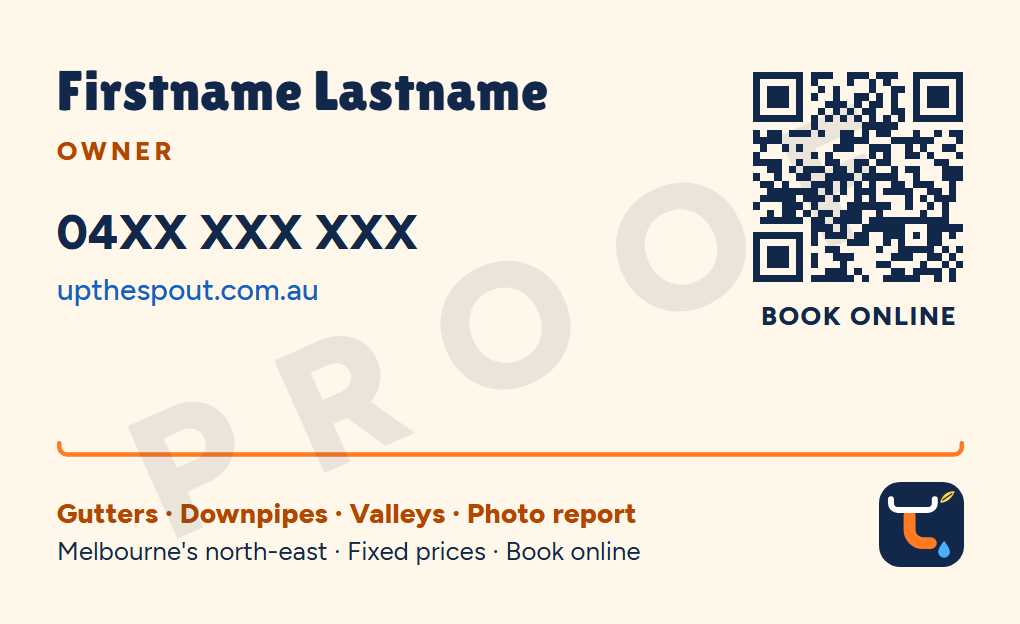
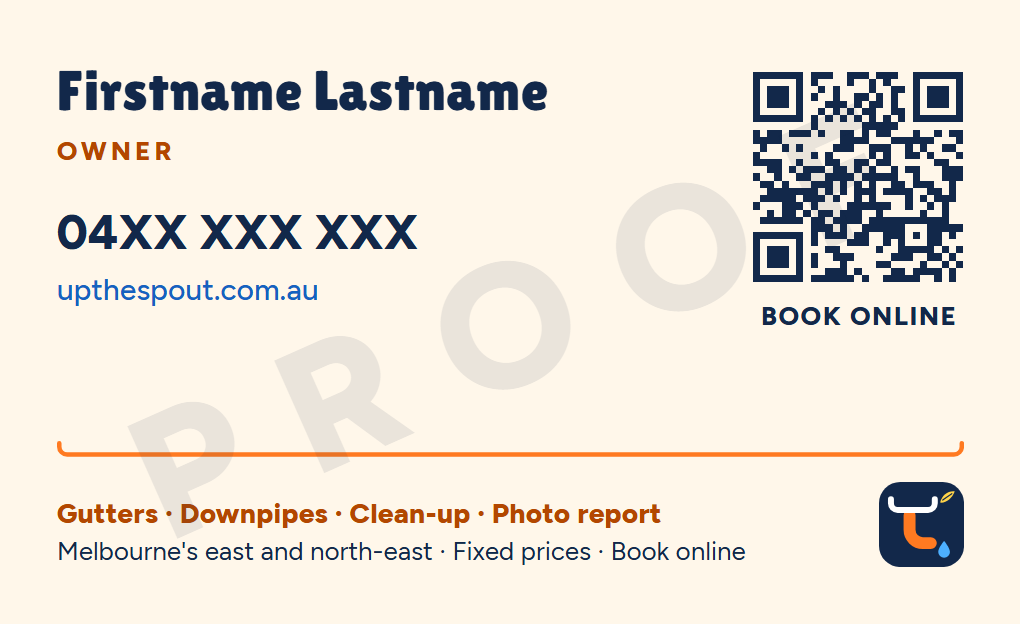
Describe the area as Melbourne's east and north-east
Update page copy, titles, meta descriptions, email footer, invoice
header and llms.txt, and re-render the OG image and proof card.

Changed region(s): [[0.1824, 0.7917, 0.7294, 0.9135]]

diff --git a/templates/pages/home.html b/templates/pages/home.html
@@ -1,8 +1,8 @@
 {{template "base" .}}
 
 {{define "meta"}}
-    <title>Gutter Cleaning in Melbourne's North-East — Fixed Prices | Up The Spout</title>
-    <meta name="description" content="Gutter and downpipe cleaning across Melbourne's north-east: Eltham, Templestowe, Donvale, Ringwood North, Warrandyte and nearby. Fixed prices from ${{(index .Site.Prices.Types 0).Price}}, book online, before-and-after photos with every clean.">
+    <title>Gutter Cleaning in Melbourne's East and North-East — Fixed Prices | Up The Spout</title>
+    <meta name="description" content="Gutter and downpipe cleaning across Melbourne's east and north-east: Eltham, Templestowe, Donvale, Ringwood North, Warrandyte and nearby. Fixed prices from ${{(index .Site.Prices.Types 0).Price}}, book online, before-and-after photos with every clean.">
     <meta property="og:title" content="Up The Spout — gutter cleaning with fixed prices, book online">
     <meta property="og:description" content="Gutters cleared with professional equipment, mess taken away, and a photo report. Get fire-ready before summer.">
 {{end}}
@@ -60,11 +60,11 @@
         <div class="container">
             <div class="hero-grid">
                 <div class="hero-content">
-                    <p class="hero-overline">Gutter &amp; downpipe cleaning &middot; Melbourne's north-east</p>
+                    <p class="hero-overline">Gutter &amp; downpipe cleaning &middot; Melbourne's east and north-east</p>
                     <h1>Clean gutters, <span class="hl">done properly.</span></h1>
                     <p class="hero-desc">
                         We use professional gutter cleaning equipment, so no one has to risk their life on a
-                        ladder. Gutters cleared for homes across Melbourne's north-east, at
+                        ladder. Gutters cleared for homes across Melbourne's east and north-east, at
                         fixed prices, with the mess taken away and before-and-after photos of the job.
                     </p>
                     <div class="hero-actions">
@@ -216,7 +216,7 @@
     <section class="areas-section" id="areas">
         <div class="container">
             <div class="section-label reveal">Service area</div>
-            <h2 class="section-title reveal">Covering Melbourne's north-east.</h2>
+            <h2 class="section-title reveal">Covering Melbourne's east and north-east.</h2>
             <div class="reveal">{{template "areas" .Site}}</div>
         </div>
     </section>

diff --git a/templates/pages/areas.html b/templates/pages/areas.html
@@ -1,10 +1,10 @@
 {{template "base" .}}
 
 {{define "meta"}}
-    <title>Service Areas — Gutter Cleaning in Melbourne's North-East | Up The Spout</title>
-    <meta name="description" content="Gutter cleaning across {{.PageData.Count}} suburbs in Melbourne's north-east: Manningham, Nillumbik and Maroondah. Fixed prices, no call-out fee.">
-    <meta property="og:title" content="Where we work — gutter cleaning in Melbourne's north-east">
-    <meta property="og:description" content="{{.PageData.Count}} suburbs across Melbourne's north-east. Fixed prices, no call-out fee.">
+    <title>Service Areas — Gutter Cleaning in Melbourne's East and North-East | Up The Spout</title>
+    <meta name="description" content="Gutter cleaning across {{.PageData.Count}} suburbs in Melbourne's east and north-east: Manningham, Nillumbik and Maroondah. Fixed prices, no call-out fee.">
+    <meta property="og:title" content="Where we work — gutter cleaning in Melbourne's east and north-east">
+    <meta property="og:description" content="{{.PageData.Count}} suburbs across Melbourne's east and north-east. Fixed prices, no call-out fee.">
 {{end}}
 
 {{define "head"}}
@@ -16,7 +16,7 @@
         <div class="container">
             <div class="section-label">Service areas</div>
             <h1 class="section-title">Where we work.</h1>
-            <p class="page-header-intro">We work across Melbourne's north-east: anywhere about 15 minutes' drive from our base in Warrandyte. There's no call-out fee anywhere on this list. Pick your suburb for local details, or <a href="/book">book a clean</a>.</p>
+            <p class="page-header-intro">We work across Melbourne's east and north-east: anywhere about 15 minutes' drive from our base in Warrandyte. There's no call-out fee anywhere on this list. Pick your suburb for local details, or <a href="/book">book a clean</a>.</p>
         </div>
     </div>
 

diff --git a/templates/pages/services.html b/templates/pages/services.html
@@ -1,8 +1,8 @@
 {{template "base" .}}
 
 {{define "meta"}}
-    <title>Gutter Cleaning Services — Melbourne's North-East | Up The Spout</title>
-    <meta name="description" content="Gutter cleaning, fire-season cleans, the twice-a-year Fire-ready plan, blocked downpipes, and pre-sale or rental cleans across Melbourne's north-east.">
+    <title>Gutter Cleaning Services — Melbourne's East and North-East | Up The Spout</title>
+    <meta name="description" content="Gutter cleaning, fire-season cleans, the twice-a-year Fire-ready plan, blocked downpipes, and pre-sale or rental cleans across Melbourne's east and north-east.">
     <meta property="og:title" content="Gutter cleaning services — Up The Spout">
     <meta property="og:description" content="Everything we do, with fixed prices published up front.">
 {{end}}
@@ -16,7 +16,7 @@
         <div class="container">
             <div class="section-label">Services</div>
             <h1 class="section-title">What we do.</h1>
-            <p class="page-header-intro">Gutters and downpipes, across Melbourne's north-east. Every clean comes with a before-and-after photo report. We don't do repairs or plumbing — if we spot a problem, we'll photograph it and tell you who to call.</p>
+            <p class="page-header-intro">Gutters and downpipes, across Melbourne's east and north-east. Every clean comes with a before-and-after photo report. We don't do repairs or plumbing — if we spot a problem, we'll photograph it and tell you who to call.</p>
         </div>
     </div>
 

diff --git a/templates/layouts/base.html b/templates/layouts/base.html
@@ -6,8 +6,8 @@
     <meta name="viewport" content="width=device-width, initial-scale=1.0">
     {{template "google-tag" .}}
     {{block "meta" .}}
-    <title>Up The Spout — Gutter Cleaning in Melbourne's North-East</title>
-    <meta name="description" content="Gutter and downpipe cleaning across Melbourne's north-east: Eltham, Templestowe, Donvale, Ringwood North, Warrandyte and nearby. Fixed prices, book online, photo report with every clean.">
+    <title>Up The Spout — Gutter Cleaning in Melbourne's East and North-East</title>
+    <meta name="description" content="Gutter and downpipe cleaning across Melbourne's east and north-east: Eltham, Templestowe, Donvale, Ringwood North, Warrandyte and nearby. Fixed prices, book online, photo report with every clean.">
     {{end}}
     <link rel="canonical" href="{{.Site.BaseURL}}{{.Path}}">
     <meta property="og:site_name" content="{{.Site.Name}}">
@@ -18,7 +18,7 @@
     <meta property="og:image" content="{{.Site.BaseURL}}/static/img/og.png">
     <meta property="og:image:width" content="1200">
     <meta property="og:image:height" content="630">
-    <meta property="og:image:alt" content="Up The Spout — gutter and downpipe cleaning in Melbourne's north-east">
+    <meta property="og:image:alt" content="Up The Spout — gutter and downpipe cleaning in Melbourne's east and north-east">
     {{end}}
     <meta name="twitter:card" content="summary_large_image">
     <meta name="geo.region" content="AU-VIC">

diff --git a/templates/pages/pricing.html b/templates/pages/pricing.html
@@ -1,7 +1,7 @@
 {{template "base" .}}
 
 {{define "meta"}}
-    <title>Gutter Cleaning Prices — Melbourne's North-East | Up The Spout</title>
+    <title>Gutter Cleaning Prices — Melbourne's East and North-East | Up The Spout</title>
     <meta name="description" content="Fixed gutter cleaning prices: {{range $i, $t := .Site.Prices.Types}}{{if $i}}, {{end}}{{$t.Name}} ${{$t.Price}}{{end}}. Rubbish removal and a photo report included.">
     <meta property="og:title" content="Gutter cleaning prices — published up front">
     <meta property="og:description" content="Fixed prices from {{.Site.Prices.Range}}. Gutters cleared, mess taken away, photo report.">
@@ -17,7 +17,7 @@
           "@type": "Service",
           "name": "Gutter cleaning",
           "serviceType": "Gutter cleaning",
-          "description": "Residential gutter cleaning in Melbourne's north-east: every gutter cleared with professional equipment, debris taken away, and a before-and-after photo report.",
+          "description": "Residential gutter cleaning in Melbourne's east and north-east: every gutter cleared with professional equipment, debris taken away, and a before-and-after photo report.",
           "url": "{{.Site.BaseURL}}/pricing",
           "provider": {"@id": "{{.Site.BaseURL}}/#business"},
           "areaServed": [{{range $i, $n := .Site.Suburbs}}{{if $i}}, {{end}}{"@type": "City", "name": "{{$n}}"}{{end}}],

diff --git a/templates/pages/guides.html b/templates/pages/guides.html
@@ -2,7 +2,7 @@
 
 {{define "meta"}}
     <title>Gutter Guides — How Often, Fire Season, Downpipes &amp; Ladder Safety | Up The Spout</title>
-    <meta name="description" content="Plain-English gutter guides for homes in Melbourne's north-east: how often to clean, getting fire-ready, spotting blockages from the ground, downpipes and ladder safety.">
+    <meta name="description" content="Plain-English gutter guides for homes in Melbourne's east and north-east: how often to clean, getting fire-ready, spotting blockages from the ground, downpipes and ladder safety.">
     <meta property="og:title" content="Gutter guides — plain English, local advice">
     <meta property="og:description" content="How often to clean, fire-season prep, and what you can safely check from the ground.">
 {{end}}

diff --git a/templates/pages/service.html b/templates/pages/service.html
@@ -83,7 +83,7 @@
                     </ul>
                     <a href="/book?service={{$s.Slug}}" class="btn btn--primary aside-btn">Book this service &#8594;</a>
                     {{if $.Site.Phone}}<a href="{{$.Site.PhoneHref}}" class="btn btn--ghost aside-btn">Call {{$.Site.Phone}}</a>{{end}}
-                    <p class="aside-area">Eltham, Templestowe, Donvale, Warrandyte, Ringwood North and <a href="/areas">the rest of Melbourne's north-east</a>.</p>
+                    <p class="aside-area">Eltham, Templestowe, Donvale, Warrandyte, Ringwood North and <a href="/areas">the rest of Melbourne's east and north-east</a>.</p>
                 </aside>
             </div>
         </div>

diff --git a/templates/pages/book.html b/templates/pages/book.html
@@ -2,7 +2,7 @@
 
 {{define "meta"}}
     <title>Book a Gutter Clean — See Your Price | Up The Spout</title>
-    <meta name="description" content="Book gutter cleaning in Melbourne's north-east. Pick your type of house, see the fixed price straight away, and tell us which days suit.">
+    <meta name="description" content="Book gutter cleaning in Melbourne's east and north-east. Pick your type of house, see the fixed price straight away, and tell us which days suit.">
     <meta property="og:title" content="Book a gutter clean — Up The Spout">
     <meta property="og:description" content="Fixed prices, photo report with every clean, and no payment until the job's done.">
 {{end}}

diff --git a/templates/layouts/partials.html b/templates/layouts/partials.html
@@ -124,7 +124,7 @@
 {{define "areas"}}
 <div class="areas-grid">
     <div class="area-map-wrap">
-        <div id="area-map" class="area-map" role="img" aria-label="Map of Melbourne's outer north-east with a shaded circle showing the approximate service area around Warrandyte"></div>
+        <div id="area-map" class="area-map" role="img" aria-label="Map of Melbourne's outer east and north-east with a shaded circle showing the approximate service area around Warrandyte"></div>
         <p class="area-map-caption">Approximate service area: about 15 minutes' drive from our base in Warrandyte.</p>
     </div>
     <div>

diff --git a/templates/pages/404.html b/templates/pages/404.html
@@ -33,7 +33,7 @@
                 <a href="/areas" class="service-card">
                     <div class="service-icon">Areas</div>
                     <h3>Where we work</h3>
-                    <p>Melbourne's north-east: Manningham, Nillumbik and Maroondah.</p>
+                    <p>Melbourne's east and north-east: Manningham, Nillumbik and Maroondah.</p>
                     <span class="service-card-more">Service areas &#8594;</span>
                 </a>
                 <a href="/book" class="service-card">

diff --git a/templates/pages/area.html b/templates/pages/area.html
@@ -17,7 +17,7 @@
     <meta property="og:image" content="{{.Site.BaseURL}}/static/img/og.png">
     <meta property="og:image:width" content="1200">
     <meta property="og:image:height" content="630">
-    <meta property="og:image:alt" content="Up The Spout — gutter and downpipe cleaning in Melbourne's north-east">
+    <meta property="og:image:alt" content="Up The Spout — gutter and downpipe cleaning in Melbourne's east and north-east">
     {{end}}
 {{end}}
 

diff --git a/cmd/server/services.go b/cmd/server/services.go
@@ -76,7 +76,7 @@ var services = []Service{
 		Short:  "Every gutter cleared with professional equipment, and the mess bagged and taken away — with a dated photo report.",
 		Intro:  "A proper clean, done safely. We use professional gutter cleaning equipment, so no one has to risk their life on a ladder. We clear every metre of gutter and take everything away with us.",
 		Body: []string{
-			"Across Melbourne's leafy north-east, gum trees drop leaves, bark and gumnuts all year, so gutters fill faster than most people expect. Once they're full, water spills over the back edge and soaks the fascia and eaves. The timber rots, steel gutters rust through from the inside, and water finds its way into the roof, walls and footings. By then it's a job for a carpenter and a plumber, at many times the price of a clean.",
+			"Across Melbourne's leafy east and north-east, gum trees drop leaves, bark and gumnuts all year, so gutters fill faster than most people expect. Once they're full, water spills over the back edge and soaks the fascia and eaves. The timber rots, steel gutters rust through from the inside, and water finds its way into the roof, walls and footings. By then it's a job for a carpenter and a plumber, at many times the price of a clean.",
 			"You get before-and-after photos of the gutters with your receipt, so you can see the work from the ground. Nothing is burnt and nothing is left in your garden beds.",
 			"If we spot something that needs a plumber — a sagging section, a rusted-through joint, a broken downpipe — we'll photograph it and tell you. Repairs are licensed plumbing work in Victoria, so we don't do them.",
 		},
@@ -90,8 +90,8 @@ var services = []Service{
 		},
 		PriceNote: fmt.Sprintf("Fixed prices from $%d for a unit to $%d for a double storey. Taking the mess away is included.", propertyTypes[0].Price, propertyTypes[len(propertyTypes)-1].Price),
 		Related:   []string{"bushfire-preparation", "fire-ready-plan", "downpipe-unblocking"},
-		MetaTitle: "Gutter Cleaning in Melbourne's North-East — Fixed Prices, Book Online | Up The Spout",
-		MetaDesc:  "Gutter cleaning in Melbourne's north-east: every gutter cleared with professional equipment, no ladders, photo report. Fixed prices, book online.",
+		MetaTitle: "Gutter Cleaning in Melbourne's East and North-East — Fixed Prices, Book Online | Up The Spout",
+		MetaDesc:  "Gutter cleaning in Melbourne's east and north-east: every gutter cleared with professional equipment, no ladders, photo report. Fixed prices, book online.",
 	},
 	{
 		Slug:   "bushfire-preparation",
@@ -112,7 +112,7 @@ var services = []Service{
 		},
 		PriceNote: "Same fixed prices as a standard clean. Book early: October to December is the busiest time of the year.",
 		Related:   []string{"fire-ready-plan", "gutter-cleaning", "downpipe-unblocking"},
-		MetaTitle: "Bushfire Season Gutter Cleaning — Melbourne's North-East | Up The Spout",
+		MetaTitle: "Bushfire Season Gutter Cleaning — Melbourne's East and North-East | Up The Spout",
 		MetaDesc:  "Get your gutters fire-ready before the Fire Danger Period. Dated photo report for council notices and insurers. Fixed prices, book online.",
 	},
 	{
@@ -133,7 +133,7 @@ var services = []Service{
 		PriceNote: fmt.Sprintf("%d%% off every plan clean. Tick \"Fire-ready plan\" when you book.", planPct),
 		Related:   []string{"bushfire-preparation", "gutter-cleaning"},
 		MetaTitle: "Fire-Ready Gutter Plan — Two Cleans a Year | Up The Spout",
-		MetaDesc:  fmt.Sprintf("Spring and autumn gutter cleans at %d%% off each, with reminders. No contract, pay after each clean. Across Melbourne's north-east.", planPct),
+		MetaDesc:  fmt.Sprintf("Spring and autumn gutter cleans at %d%% off each, with reminders. No contract, pay after each clean. Across Melbourne's east and north-east.", planPct),
 	},
 	{
 		Slug:   "downpipe-unblocking",
@@ -152,8 +152,8 @@ var services = []Service{
 		},
 		PriceNote: fmt.Sprintf("A blocked downpipe that needs jetting is $%d, and only with your OK.", downpipePrice),
 		Related:   []string{"gutter-cleaning", "bushfire-preparation"},
-		MetaTitle: "Blocked Downpipe Clearing — Melbourne's North-East | Up The Spout",
-		MetaDesc:  "Blocked downpipes cleared with a jetter, with your OK, where they can be reached. Fixed prices across Melbourne's north-east.",
+		MetaTitle: "Blocked Downpipe Clearing — Melbourne's East and North-East | Up The Spout",
+		MetaDesc:  "Blocked downpipes cleared with a jetter, with your OK, where they can be reached. Fixed prices across Melbourne's east and north-east.",
 	},
 	{
 		Slug:   "pre-sale-and-rentals",
@@ -171,7 +171,7 @@ var services = []Service{
 		},
 		PriceNote: "Same fixed prices. Invoices can go to the owner or the agency.",
 		Related:   []string{"gutter-cleaning", "downpipe-unblocking"},
-		MetaTitle: "Pre-Sale & Rental Gutter Cleaning — Melbourne's North-East | Up The Spout",
+		MetaTitle: "Pre-Sale & Rental Gutter Cleaning — Melbourne's East and North-East | Up The Spout",
 		MetaDesc:  "Gutter cleans before a sale, inspection or new tenancy, with a dated photo report. Invoice the owner or the agency. Fixed prices, book online.",
 	},
 }
